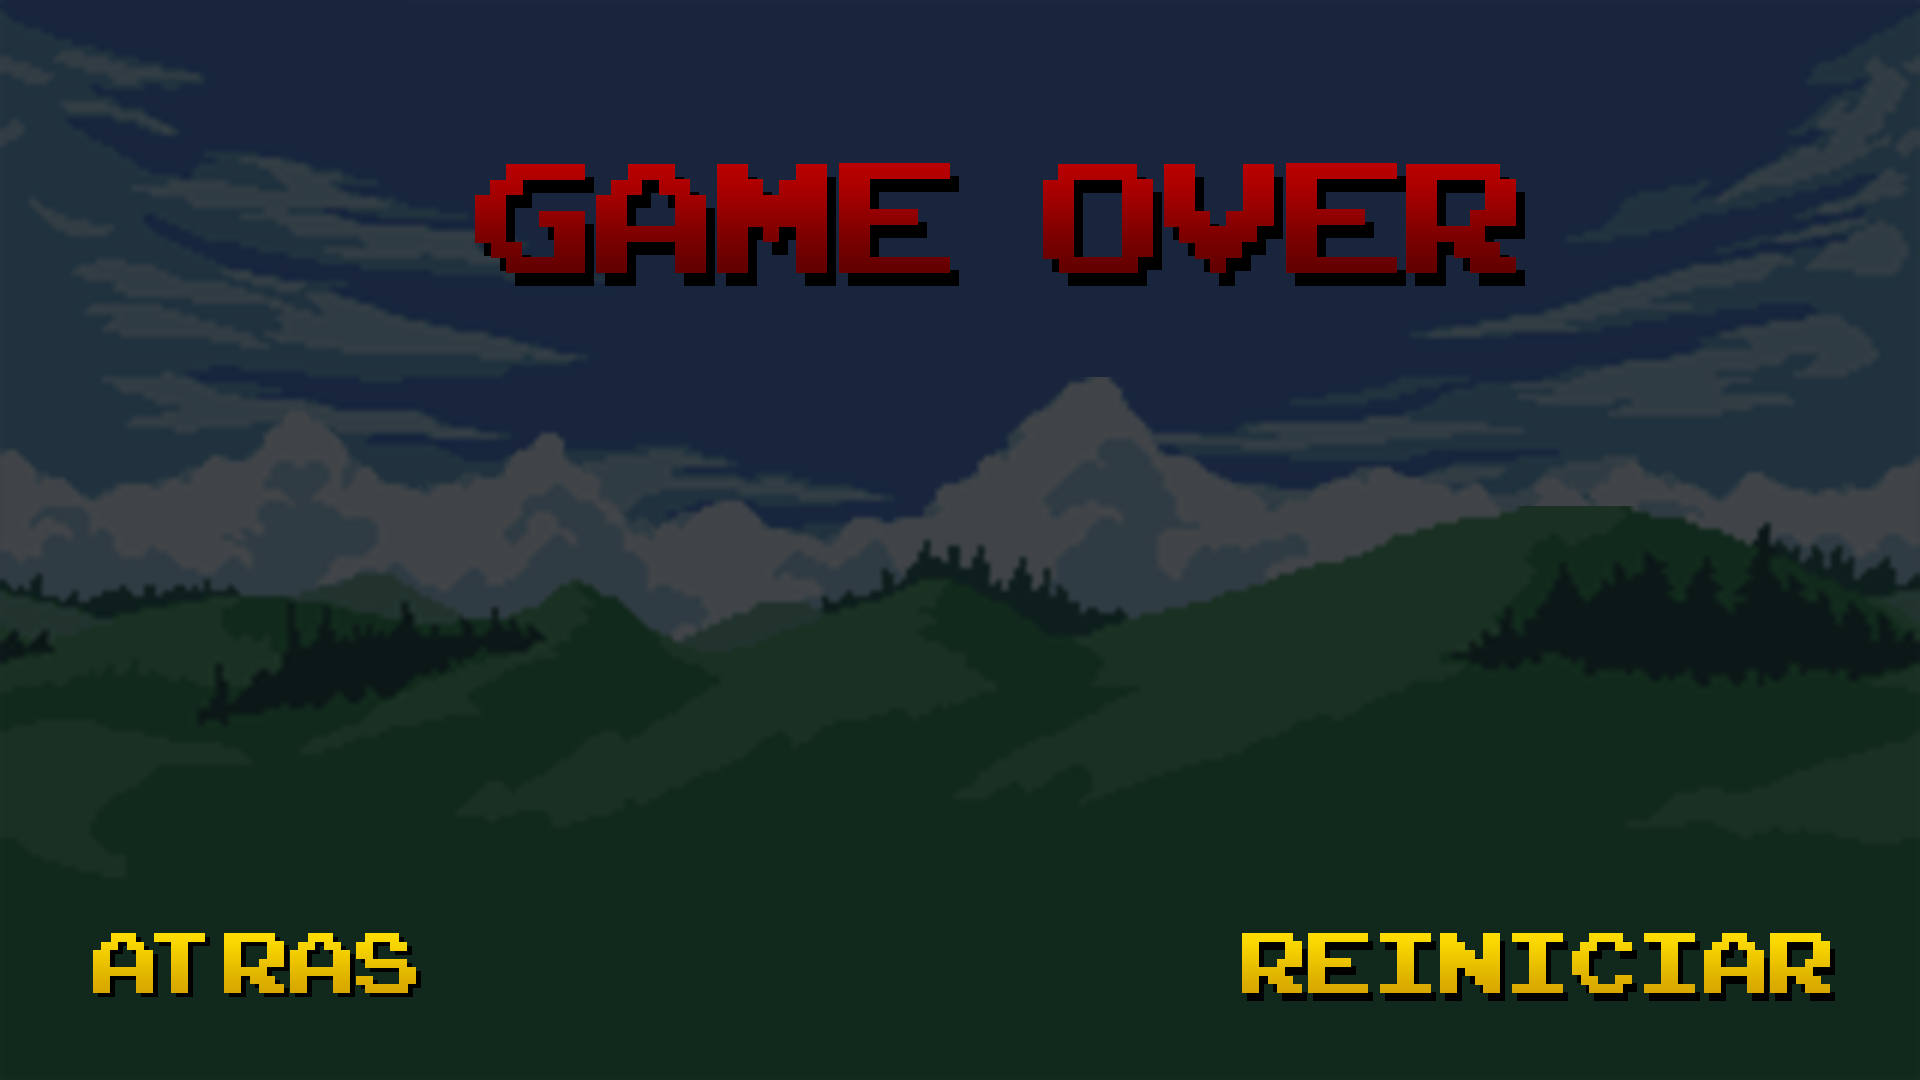
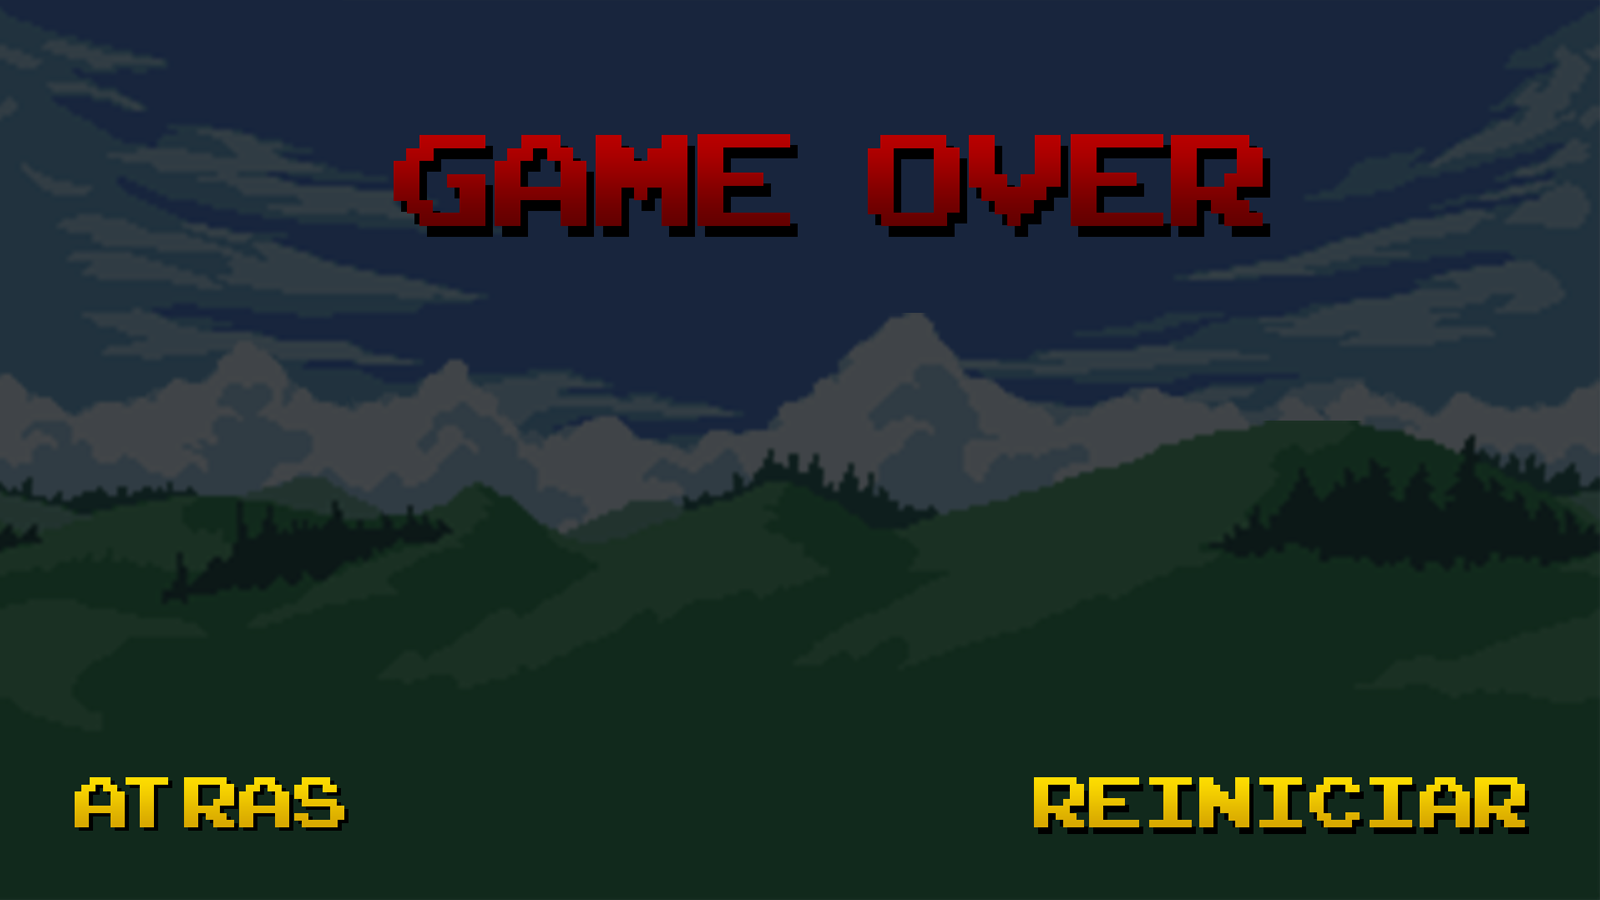
1600x900

diff --git a/Preloader.js b/Preloader.js
@@ -27,7 +27,7 @@ var Preloader = new Phaser.Class({
         this.load.image('gameover', './assets/gameover.png');
         this.load.image('coin1', './assets/coin1.png');
         this.load.spritesheet('speed', './assets/speed.png',{frameWidth: 32, frameHeight: 28});
-        this.load.spritesheet('coin', './assets/Coin.png', {frameWidth: 14, frameHeight: 28});
+        this.load.spritesheet('coin', './assets/coin.png', {frameWidth: 14, frameHeight: 28});
         this.load.spritesheet('heart', './assets/Heart.png',{frameWidth: 32, frameHeight: 28});
         this.load.audio('SpeedAudio', './assets/sounds/Speed.wav');
         this.load.audio('CoinAudio', './assets/sounds/Coin.wav');
@@ -52,13 +52,13 @@ var Preloader = new Phaser.Class({
     {
 
 
-        jugar = this.add.text(1337, 530, 'JUGAR', 
+        jugar = this.add.text(1000, 430, 'JUGAR', 
         {fontSize: '150px', fill: '#FFFFFF'});
         jugar.setInteractive()
 
         jugar.on('pointerdown', () => this.scene.start('nivel1'), this.sound.play('Select'))
 
-        creditos = this.add.text(980, 850, 'CREDITOS', 
+        creditos = this.add.text(670, 670, 'CREDITOS', 
         {fontSize: '170px', fill: '#FFFFFF'});
         creditos.setInteractive()
 

diff --git a/Uiscene.js b/Uiscene.js
@@ -6,14 +6,14 @@ class UIScene extends Phaser.Scene{
 
    create(){
 
-    this.add.text(1600, 16, 'Score: ', { fontFamily: 'Impact', fontSize: '52px', fill: '#ffd54d' });
-    this.score = this.add.text(1750, 16, '0', { fontFamily: 'Impact', fontSize: '52px', fill: '#ffd54d' });
+    this.add.text(1350, 16, 'Score: ', { fontFamily: 'Impact', fontSize: '52px', fill: '#ffd54d' });
+    this.score = this.add.text(1500, 16, '0', { fontFamily: 'Impact', fontSize: '52px', fill: '#ffd54d' });
 
     this.add.text(15, 16, 'Vidas: ', { fontFamily: 'Impact', fontSize: '52px', fill: '#ffd54d' });
     this.vidas = this.add.text(160, 16, '3', { fontFamily: 'Impact', fontSize: '52px', fill: '#ffd54d' });
 
     timedEvent = this.time.addEvent({ delay: 1000, callback: this.onSecond, callbackScope: this, loop: true });
-    timeText = this.add.text(1220, 16, 'Tiempo:', { fontFamily: 'Impact', fontSize: '52px', fill: '#ffd54d' });
+    timeText = this.add.text(1050, 16, 'Tiempo:', { fontFamily: 'Impact', fontSize: '52px', fill: '#ffd54d' });
 
 
     

diff --git a/Gameover.js b/Gameover.js
@@ -5,9 +5,9 @@ class Gameover extends Phaser.Scene{
 
     create() {
 
-        this.add.text(250, 910, 'ATRAS', { font: '100px Arial', fill: '#ffffff' }).setOrigin(0.5).setInteractive()
+        this.add.text(200, 730, 'ATRAS', { font: '100px Arial', fill: '#ffffff' }).setOrigin(0.5).setInteractive()
         .on('pointerdown', () => this.atras() );
-        this.add.text(1500, 910, 'REINICIAR', { font: '150px Arial', fill: '#ffffff' }).setOrigin(0.5).setInteractive()
+        this.add.text(1190, 730, 'REINICIAR', { font: '150px Arial', fill: '#ffffff' }).setOrigin(0.5).setInteractive()
         .on('pointerdown', () => this.reiniciar() );
 
         this.add.image(window.innerWidth/2,window.innerHeight/2,'gameover').setScale(1);

diff --git a/Menu.js b/Menu.js
@@ -5,13 +5,13 @@ class Menu extends Phaser.Scene {
 
     create() {
 
-        jugar = this.add.text(1337, 530, 'JUGAR', 
+        jugar = this.add.text(1000, 430, 'JUGAR', 
         {fontSize: '150px', fill: '#FFFFFF'});
         jugar.setInteractive()
 
         jugar.on('pointerdown', () => this.scene.start('nivel1'), this.sound.play('Select'))
 
-        creditos = this.add.text(980, 850, 'CREDITOS', 
+        creditos = this.add.text(670, 670, 'CREDITOS', 
         {fontSize: '170px', fill: '#FFFFFF'});
         creditos.setInteractive()
 

diff --git a/Creditos.js b/Creditos.js
@@ -5,7 +5,7 @@ class Creditos extends Phaser.Scene{
 
     create() {
 
-        this.add.text(100, 870, 'ATRAS', { font: '120px Arial', fill: '#ffffff' }).setInteractive()
+        this.add.text(100, 670, 'ATRAS', { font: '120px Arial', fill: '#ffffff' }).setInteractive()
         .on('pointerdown', () => this.atras() );
 
         this.add.image(window.innerWidth/2,window.innerHeight/2,'creditos').setScale(1);

diff --git a/Nivel1.js b/Nivel1.js
@@ -70,7 +70,7 @@ class Nivel1 extends Phaser.Scene {
             child.y += Phaser.Math.FloatBetween(200, 10) 
             child.score = 10;
             child.setScale(1);
-            //child.anims.play('girar', true)
+            child.anims.play('girar', true)
 
         });
 

diff --git a/Nivel2.js b/Nivel2.js
@@ -75,7 +75,7 @@ class Nivel2 extends Phaser.Scene {
             child.y += Phaser.Math.FloatBetween(200, 10) 
             child.score = 10;
             child.setScale(1);
-            //child.anims.play('girar', true)
+            child.anims.play('girar', true)
 
         });
 
